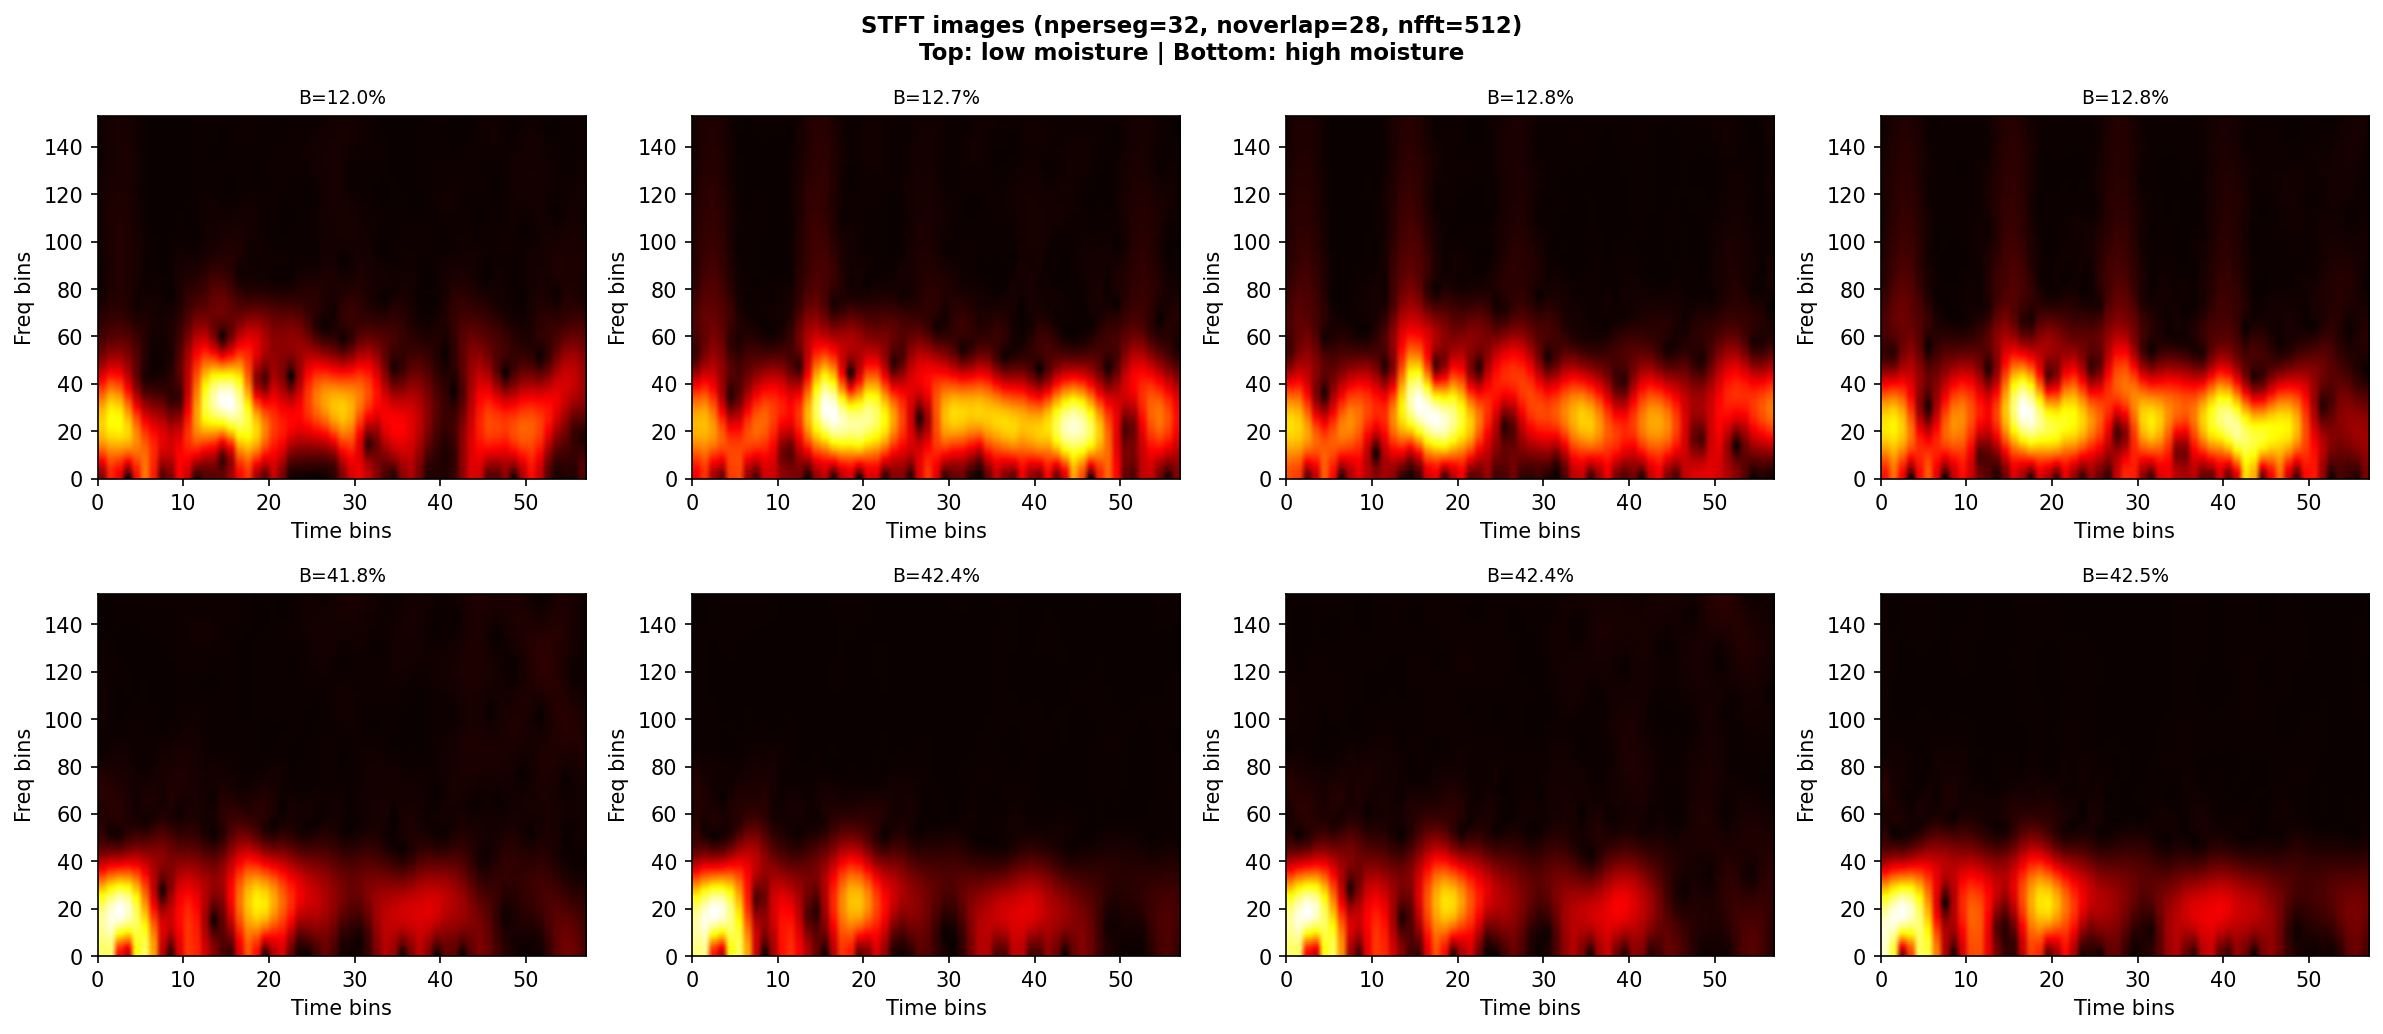
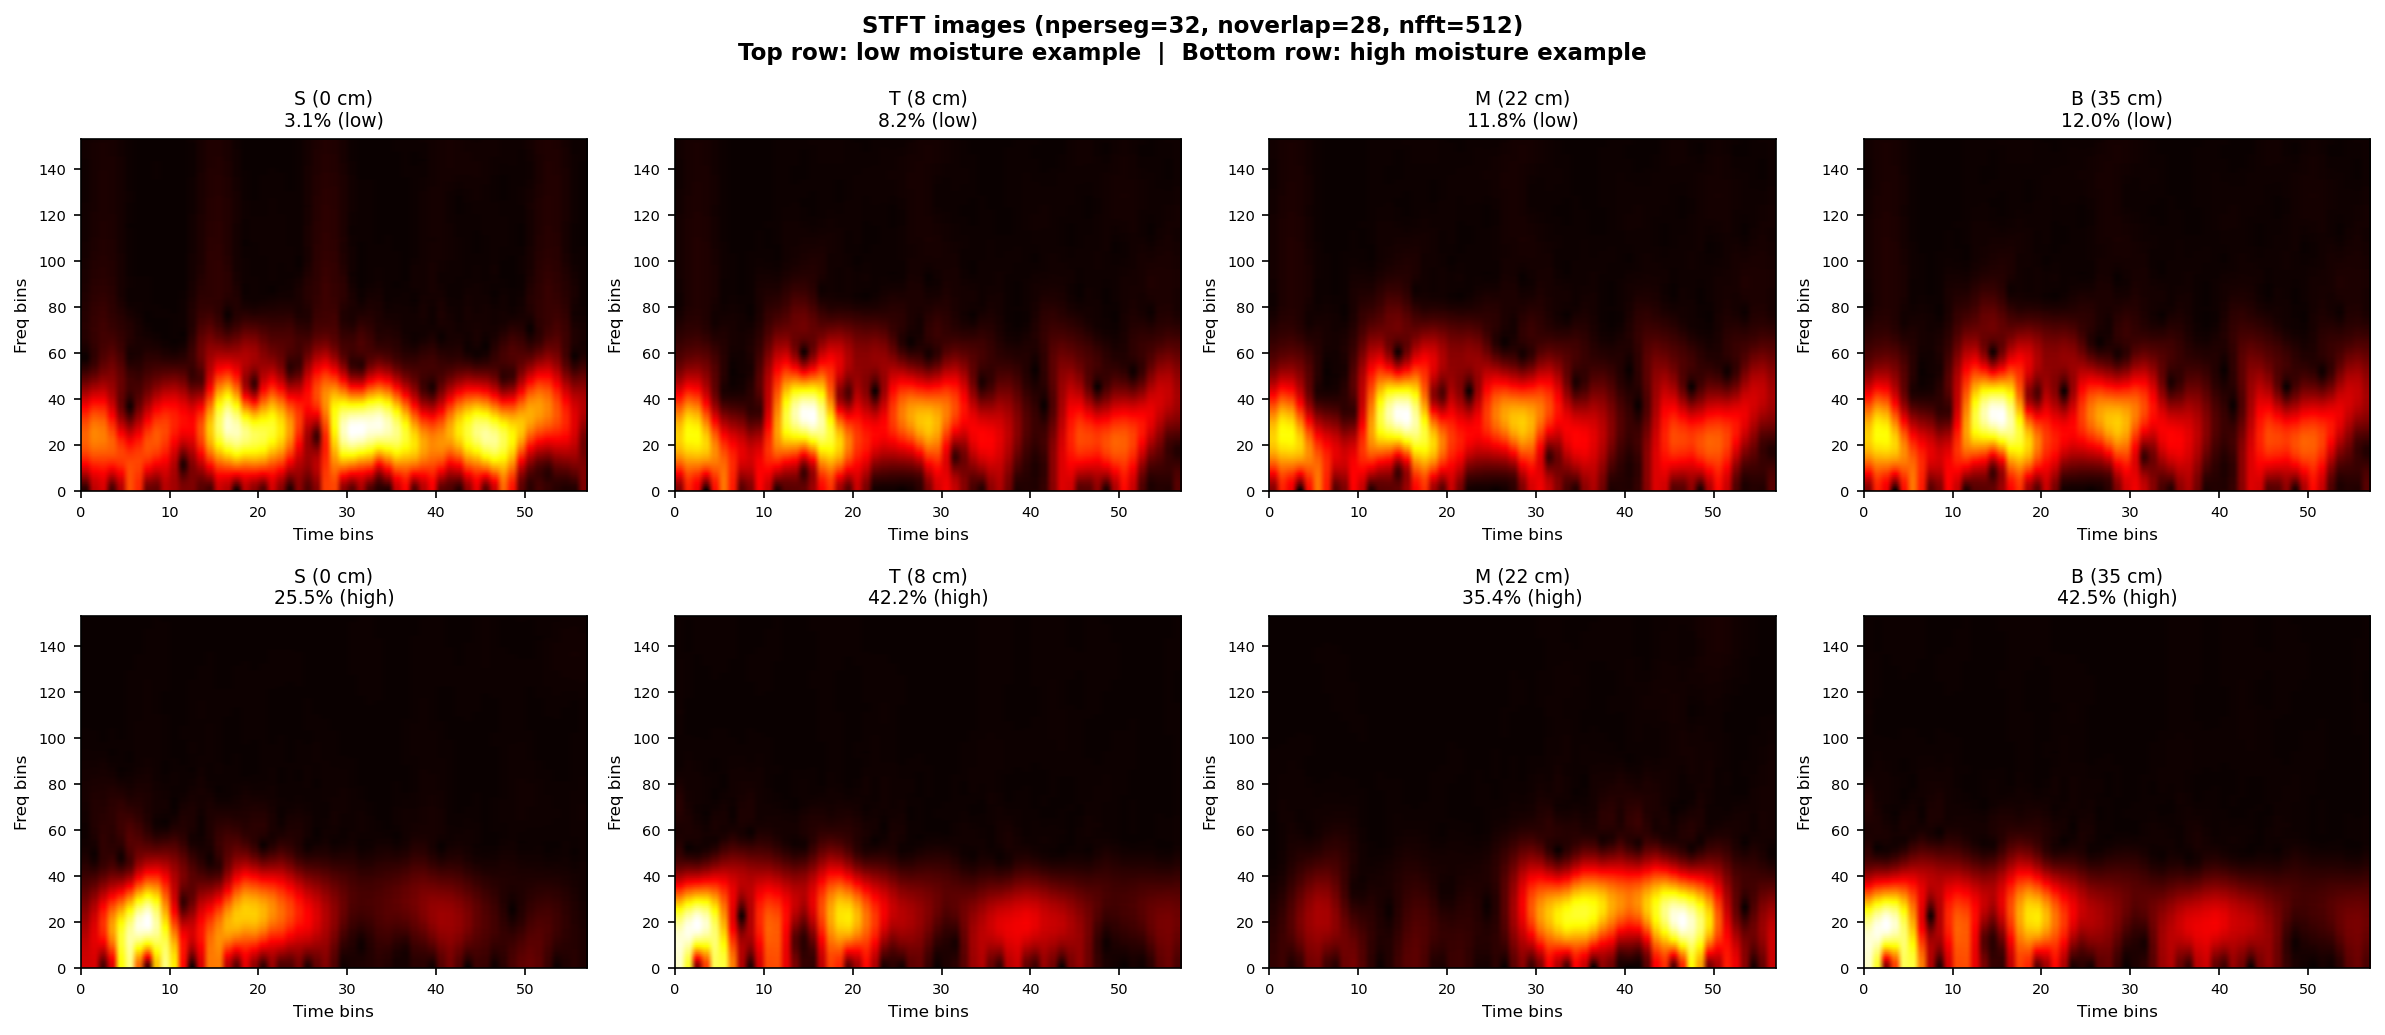
Update STFT sample figure: one low/high moisture example per layer (S/T/M/B)

Changed region(s): [[0.0, 0.0309, 0.9937, 0.9903]]

diff --git a/scripts/method_d_stft_cnn.py b/scripts/method_d_stft_cnn.py
@@ -173,24 +173,28 @@ plt.tight_layout()
 plt.savefig('../results/fig_methodD_scatter.png', dpi=150, bbox_inches='tight')
 plt.close()
 
-# ── STFT sample images ─────────────────────────────────────────────────────
+# ── STFT sample images — one low + one high per layer ─────────────────────
+LAYER_LABELS = ['S (0 cm)', 'T (8 cm)', 'M (22 cm)', 'B (35 cm)']
 fig, axes = plt.subplots(2, 4, figsize=(16, 7))
 fig.suptitle(f'STFT images (nperseg={NPERSEG}, noverlap={NOVERLAP}, nfft={NFFT})\n'
-             'Top: low moisture | Bottom: high moisture', fontsize=11, fontweight='bold')
-b_mo = y[:, 3]
-sorted_idx = np.argsort(b_mo)
-for col, idx in enumerate(sorted_idx[:4]):
-    ax = axes[0, col]
-    ax.imshow(imgs[idx, 0], aspect='auto', origin='lower', cmap='hot',
-              extent=[0, W, 0, H])
-    ax.set_title(f'B={b_mo[idx]:.1f}%', fontsize=9)
-    ax.set_xlabel('Time bins'); ax.set_ylabel('Freq bins')
-for col, idx in enumerate(sorted_idx[-4:]):
-    ax = axes[1, col]
-    ax.imshow(imgs[idx, 0], aspect='auto', origin='lower', cmap='hot',
-              extent=[0, W, 0, H])
-    ax.set_title(f'B={b_mo[idx]:.1f}%', fontsize=9)
-    ax.set_xlabel('Time bins'); ax.set_ylabel('Freq bins')
+             'Top row: low moisture example  |  Bottom row: high moisture example',
+             fontsize=11, fontweight='bold')
+
+for col, (li, lname) in enumerate(zip(range(4), LAYER_LABELS)):
+    layer_mo  = y[:, li]
+    sorted_i  = np.argsort(layer_mo)
+    idx_low   = sorted_i[0]       # lowest moisture for this layer
+    idx_high  = sorted_i[-1]      # highest moisture for this layer
+
+    for row, (idx, tag) in enumerate([(idx_low, 'low'), (idx_high, 'high')]):
+        ax = axes[row, col]
+        ax.imshow(imgs[idx, 0], aspect='auto', origin='lower', cmap='hot',
+                  extent=[0, W, 0, H])
+        ax.set_title(f'{lname}\n{layer_mo[idx]:.1f}% ({tag})', fontsize=9)
+        ax.set_xlabel('Time bins', fontsize=8)
+        ax.set_ylabel('Freq bins', fontsize=8)
+        ax.tick_params(labelsize=7)
+
 plt.tight_layout()
 plt.savefig('../results/fig_methodD_stft_samples.png', dpi=150, bbox_inches='tight')
 plt.close()
